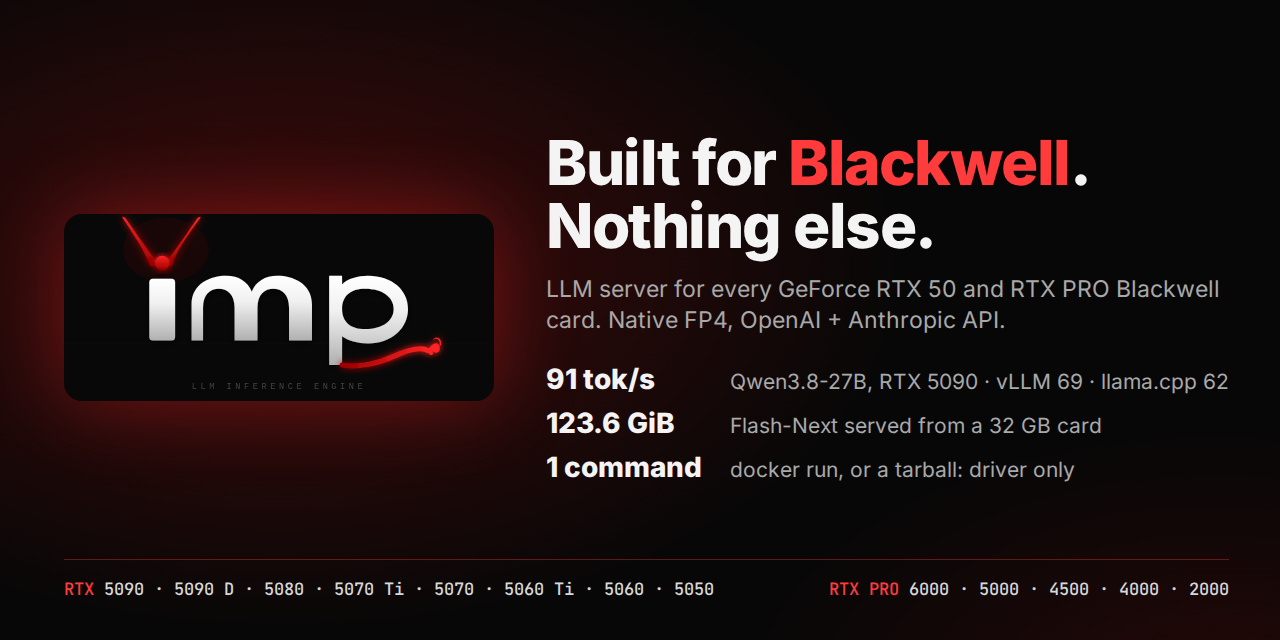
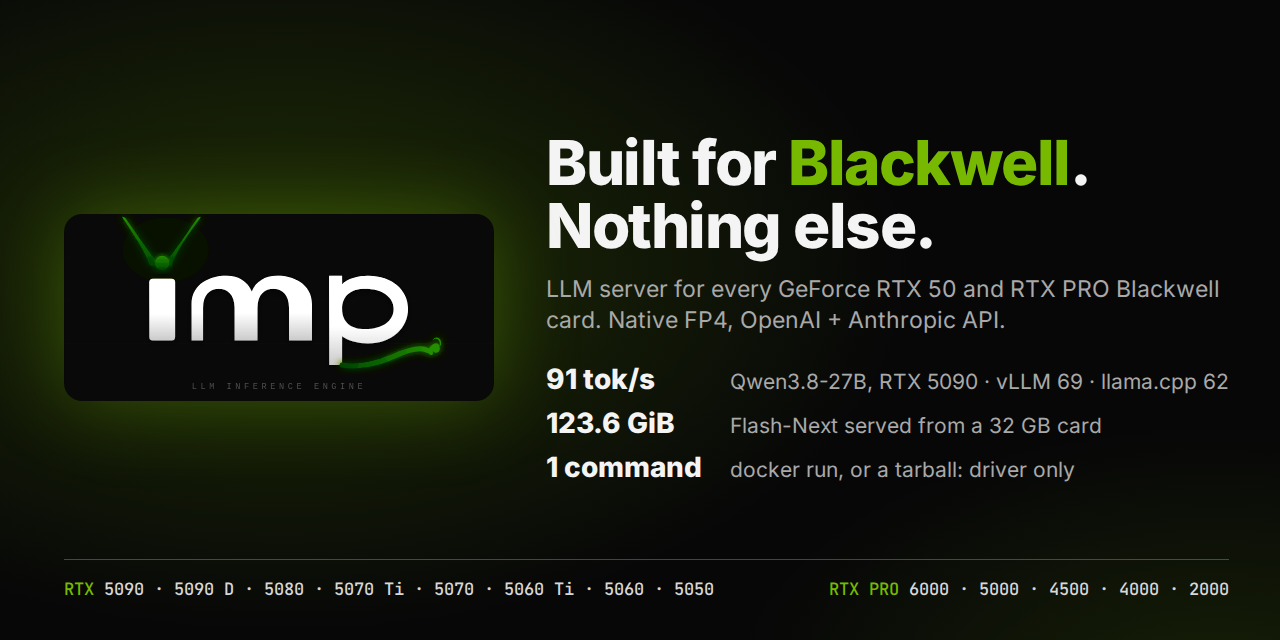
docs: social preview in NVIDIA green
Accent #76b900 (NVIDIA green) instead of red: headline word, glows, card
strip labels, divider; the logo is hue-rotated in the preview only
(docs/logo.svg unchanged).

Claude-Session: https://claude.ai/code/session_014JoJHW3Av9R35k1RVMhihi

diff --git a/docs/social-preview.html b/docs/social-preview.html
@@ -7,19 +7,19 @@
 <title>imp social preview</title>
 <link href="https://fonts.googleapis.com/css2?family=Inter:wght@400;600;800&family=JetBrains+Mono:wght@500&display=swap" rel="stylesheet">
 <style>
-  :root { --red: #ff3b3b; --red-dim: #8a1414; --fg: #f4f4f4; --muted: #a9a9a9; --bg: #070707; }
+  :root { --red: #76b900; --red-dim: #3d6000; --fg: #f4f4f4; --muted: #a9a9a9; --bg: #070707; }
   * { margin: 0; padding: 0; box-sizing: border-box; }
   html, body { width: 1280px; height: 640px; overflow: hidden; background: var(--bg); }
   body {
     font-family: Inter, system-ui, sans-serif; color: var(--fg);
     background:
-      radial-gradient(900px 520px at 22% 42%, rgba(200, 20, 20, 0.30), transparent 70%),
-      radial-gradient(700px 400px at 95% 110%, rgba(140, 10, 10, 0.22), transparent 70%),
+      radial-gradient(900px 520px at 22% 42%, rgba(118, 185, 0, 0.22), transparent 70%),
+      radial-gradient(700px 400px at 95% 110%, rgba(118, 185, 0, 0.14), transparent 70%),
       var(--bg);
     display: grid; grid-template-rows: 1fr auto; padding: 56px 64px 40px;
   }
   .top { display: grid; grid-template-columns: 430px 1fr; gap: 52px; align-items: center; }
-  .logo { width: 430px; filter: drop-shadow(0 0 40px rgba(255, 40, 40, 0.35)); border-radius: 18px; }
+  .logo { width: 430px; filter: hue-rotate(82deg) saturate(2) brightness(1.15) drop-shadow(0 0 40px rgba(118, 185, 0, 0.35)); border-radius: 18px; }
   h1 { font-size: 62px; font-weight: 800; line-height: 1.02; letter-spacing: -1.5px; }
   h1 em { font-style: normal; color: var(--red); }
   .sub { margin-top: 16px; font-size: 23px; color: var(--muted); line-height: 1.35; }
@@ -28,7 +28,7 @@
   .stat b { font-weight: 800; color: var(--fg); font-size: 28px; min-width: 168px; }
   .stat span { color: var(--muted); }
   .cards {
-    border-top: 1px solid rgba(255, 59, 59, 0.35); padding-top: 18px;
+    border-top: 1px solid rgba(118, 185, 0, 0.45); padding-top: 18px;
     font-family: "JetBrains Mono", monospace; font-size: 17px; color: #d8d8d8; white-space: nowrap;
     display: flex; justify-content: space-between; letter-spacing: 0;
   }
